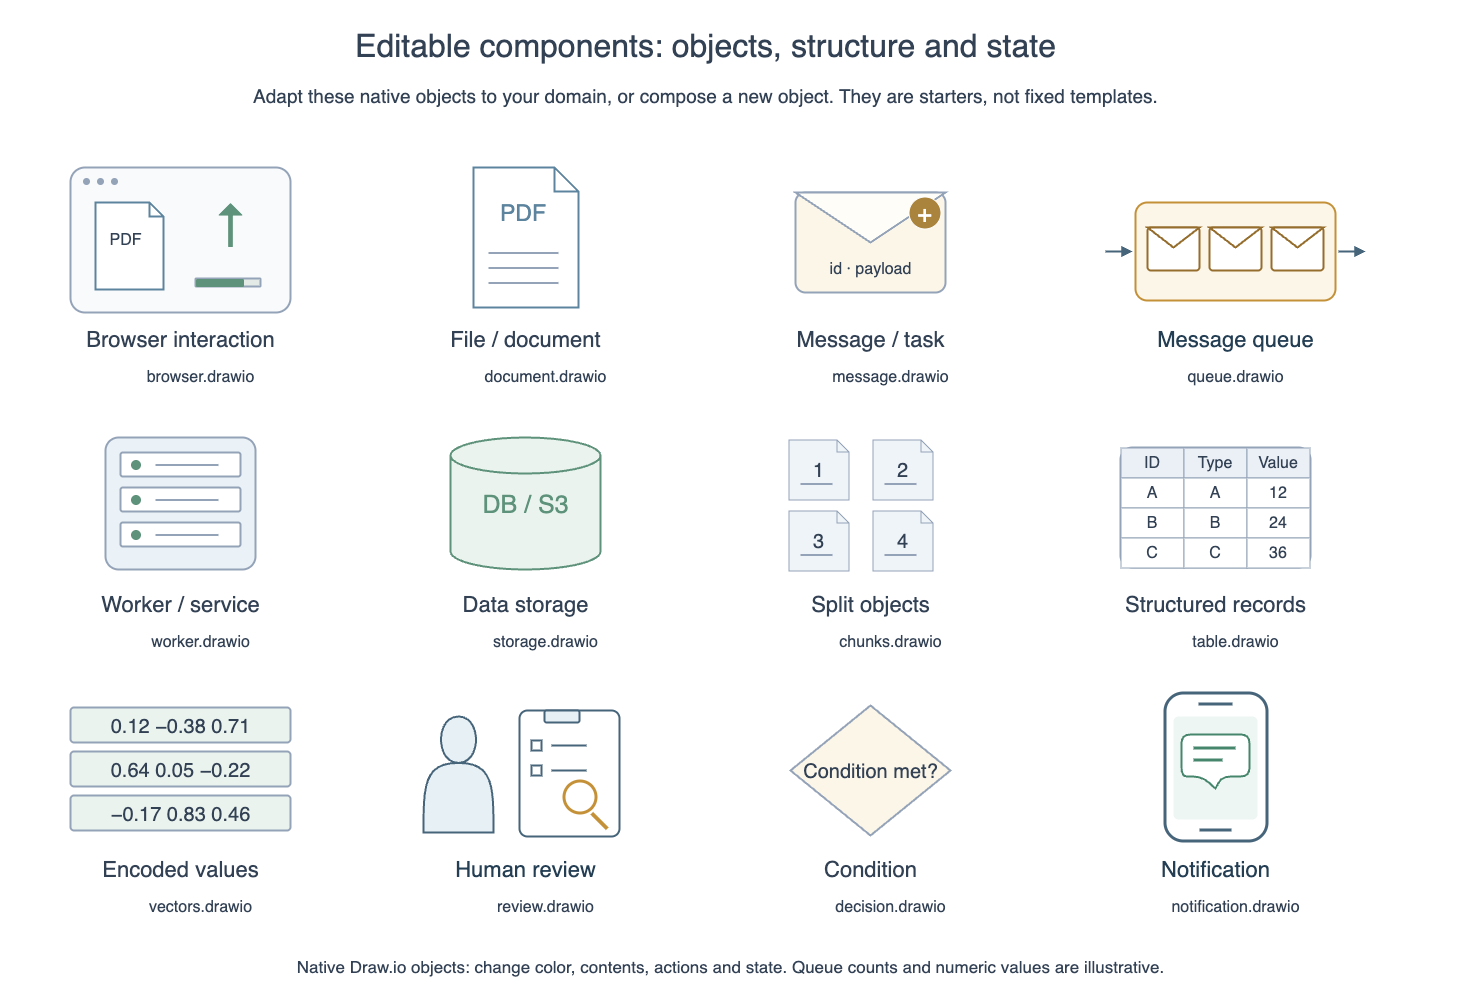
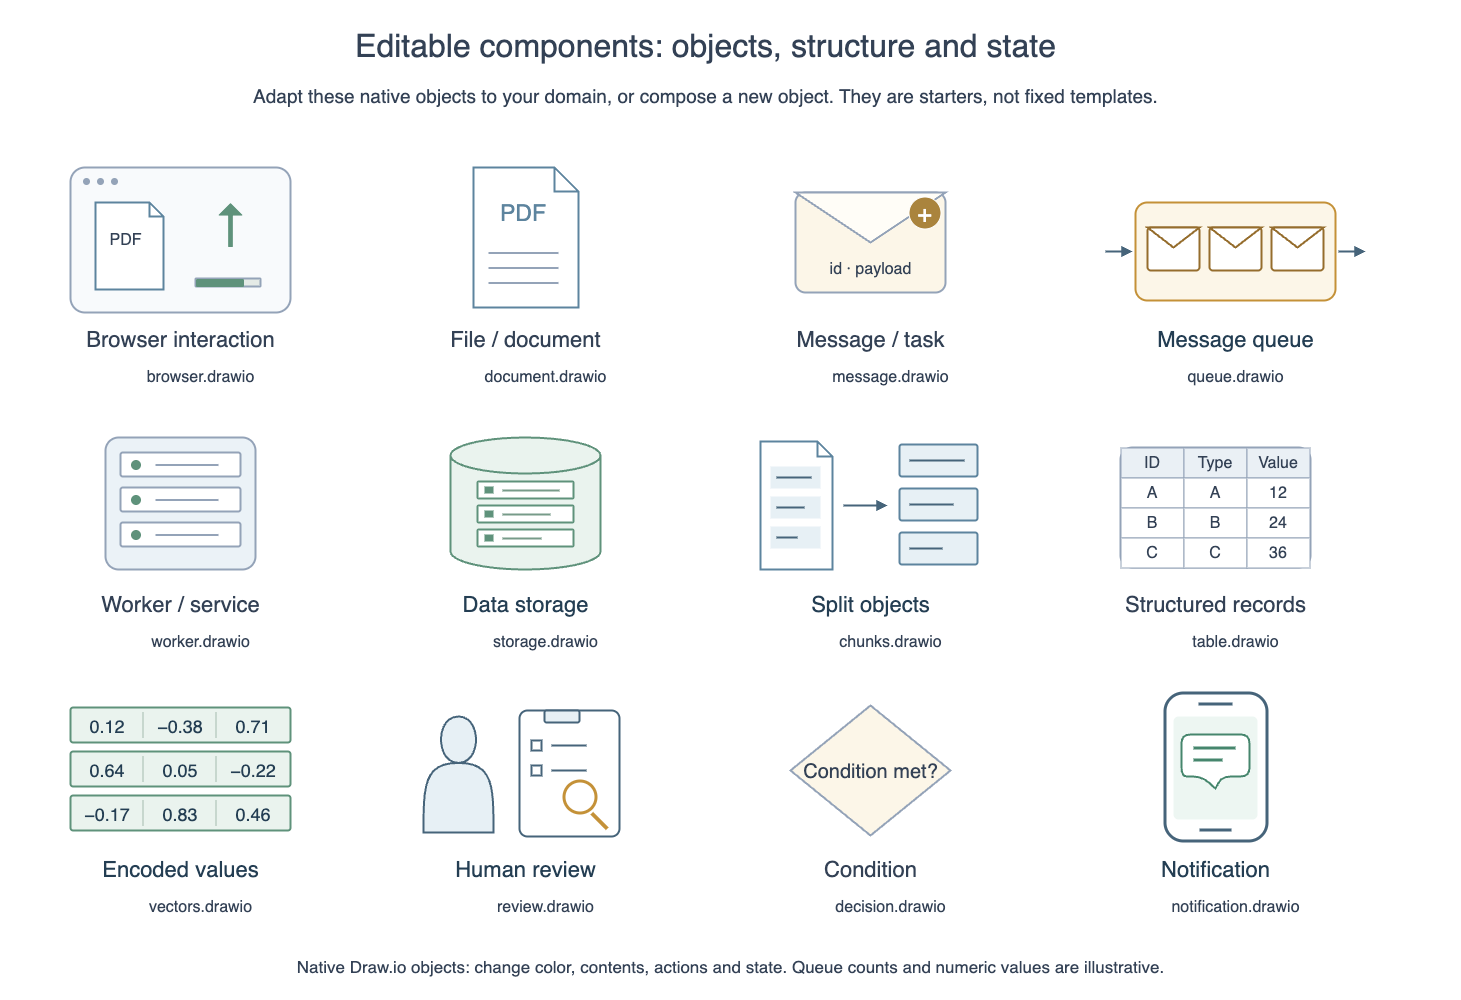
Clarify storage contents, split transformations and numeric dimensions

Changed region(s): [[0.5236, 0.434, 0.6776, 0.589], [0.0308, 0.713, 0.2156, 0.837], [0.308, 0.465, 0.4004, 0.558]]

diff --git a/references/visual-storytelling.md b/references/visual-storytelling.md
@@ -150,6 +150,8 @@ The bundled files below contain only native Draw.io cells. These 12 starters are
 | Decision | [decision.drawio](../assets/components/decision.drawio) | Condition gate; attach actual labeled exits |
 | Recipient result | [notification.drawio](../assets/components/notification.drawio) | Notification, confirmation, status display |
 
+Match the starter's contents to the actual subject. A storage cylinder may show record rows, but object storage should show the relevant files/objects and its exact name; do not merge database and object-store identity into a generic “DB / S3” label. The chunks starter shows a split transformation: for an already-split collection, reuse only its output pieces. Numeric vectors and tables legitimately need values/fields; use aligned dimensions and separators rather than replacing them with decorative icons. A rack is a service/processing symbol, not proof of physical servers or replica counts. See the [storage, splitting and vectors comparison](../examples/data-component-comparison.drawio) and [official render](../docs/images/data-component-comparison.png).
+
 To reuse a starter:
 
 1. Read the native XML and select `component` **and every descendant by parent links**, including wrapped cells. Do not copy the entire page as a picture.

diff --git a/README.md b/README.md
@@ -18,6 +18,8 @@ An Agent Skill for creating editable Draw.io diagrams that explain objects, inte
 
 See the [before/after comparison](docs/images/component-comparison.png) for simple, recognizable human review, message queues and notifications. The [editable source](examples/component-comparison.drawio) shows the actual previous and revised constructions.
 
+See also [storage, splitting and numeric dimensions](docs/images/data-component-comparison.png): recognizable contents, visible transformations, and precise text where it matters.
+
 ## Install as a skill
 
 Clone this repository into a `drawio-visuals-skill` folder inside your agent's skills directory. Preserve the directory structure so references, scripts, and component assets remain available.

diff --git a/README.zh-CN.md b/README.zh-CN.md
@@ -18,6 +18,8 @@
 
 查看[修改前后对比](docs/images/component-comparison.png)：用简洁轮廓、关键细节和动作关系改善人工审核、消息队列与通知。[可编辑源文件](examples/component-comparison.drawio)保留了实际旧版和新版构造，便于 Agent 参考。
 
+另见[存储、分块与向量对比](docs/images/data-component-comparison.png)：让存储内容、拆分变化与数值维度更清楚，保留必要的精确文字。
+
 ## 安装
 
 将仓库克隆到你的 Agent 的 skills 目录下，文件夹名保留为 `drawio-visuals-skill`，并保留内部目录结构：
